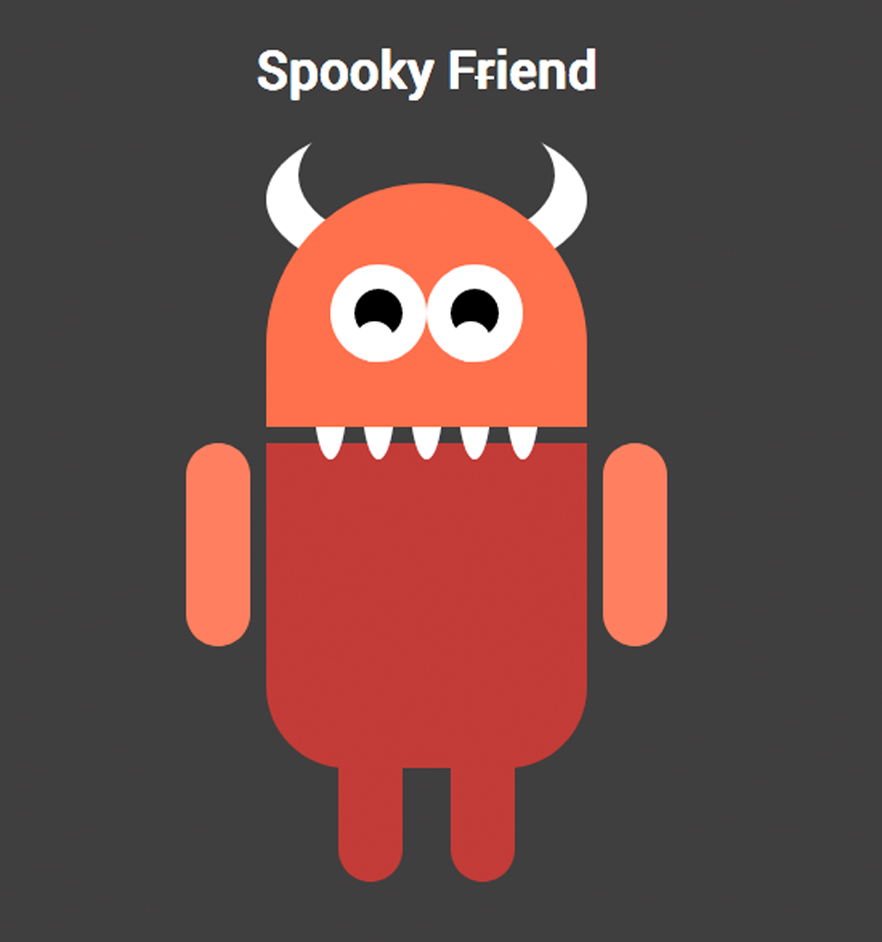
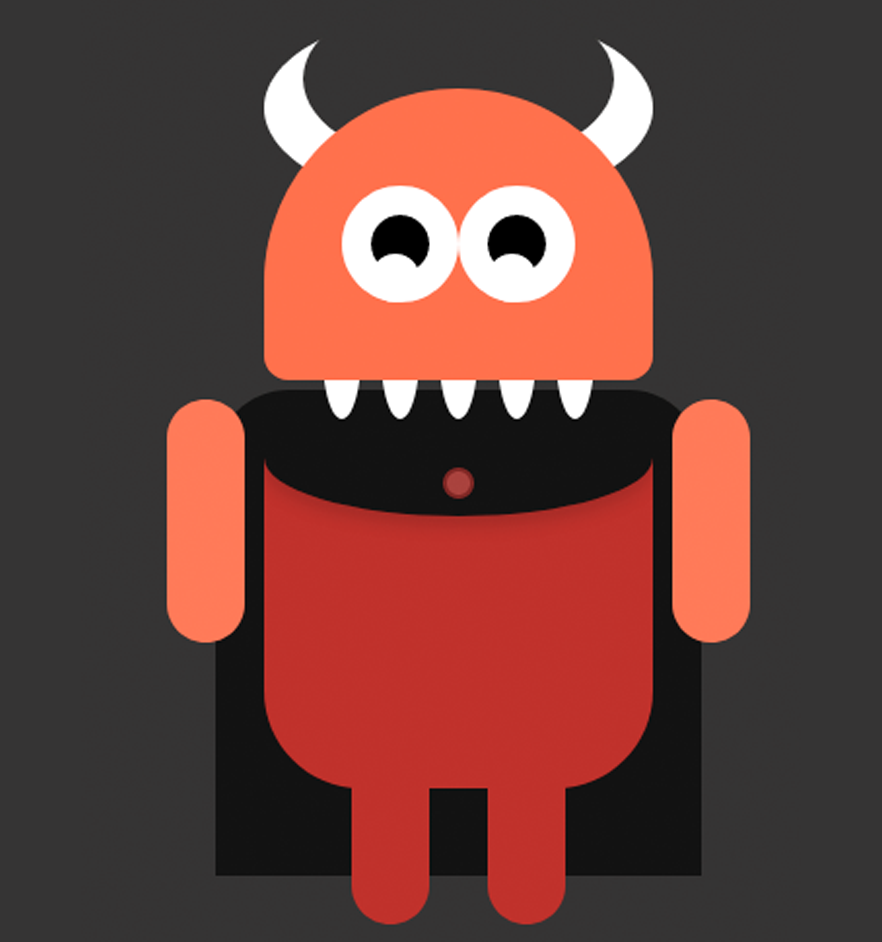
the spooky spookifies intensely

diff --git a/pavel/spooky.css b/pavel/spooky.css
@@ -46,12 +46,14 @@ h1 {
 }
 
 .head {
+  top: 0;
   position: relative;
   width: 200px;
   margin: 0 auto;
   height: 150px;
-  border-radius: 200px 200px 0 0;
+  border-radius: 200px 200px 25px 25px;
   margin-bottom: 10px;
+  
 }
 
 .teeth {position: relative;left: 0;transition: all .3s ease-in-out;}
@@ -103,10 +105,59 @@ h1 {
 }
 
 .upper_body {
+  z-index: -2;
   width: 300px;
   height: 150px;
   display: flex;
   margin: 0 auto;
+  position: relative;
+}
+.upper_body:before {
+  z-index: -1;
+  border-bottom-left-radius: 50%;
+  border-bottom-right-radius: 50%;
+  transform: translateX(-50%);
+  left: 50%;
+  position: absolute;
+  content: "";
+  width: 200px;
+  height: 60px;
+  background: black;
+  top: 0px;
+  box-shadow: 0 5px 8px rgba(0,0,0,0.2);
+}
+.upper_body:after {
+  z-index: -3;
+  border-top-left-radius: 15%;
+  border-top-right-radius: 15%;
+  transform: translateX(-50%);
+  left: 50%;
+  position: absolute;
+  content: "";
+  width: 250px;
+  height: 250px;
+  background: black;
+  top: -5px;
+}
+
+.upper_body .button {
+  position: absolute;
+  background-color: rgb(97, 11, 11);
+  width: 16px;height: 16px;
+  left: 50%;
+  top: 35px;
+  border-radius: 50%;
+  transform: translateX(-50%);
+}
+.upper_body .button:after {
+  content: "";
+  display: inline-block;
+  width: 12px;height: 12px;
+  position: absolute;
+  top: 50%;left:50%;
+  transform: translate(-50%,-50%);
+  background: #8f211f;
+  border-radius: 50%;
 }
 
 .left_arm, .right_arm {
@@ -195,6 +246,6 @@ h1 {
   top: 65%;
   border-radius: 100%;
 }
-
+.head:hover {top: 10px;transition: all 1s ease-in-out;}
 .head:hover .iris:before {top: 50%;transition: top .5s ease-in;cursor: pointer;}
 .head:hover .teeth {left:15px;transition: all .3s ease-in-out;}

diff --git a/pavel/spooky.html b/pavel/spooky.html
@@ -33,6 +33,7 @@
 				<div class="torso">
 				</div>
 				<div class="right_arm"></div>
+				<div class="button"></div>
 			</div>
 			<div class="lower_body">
 				<div class="left_leg"></div>
